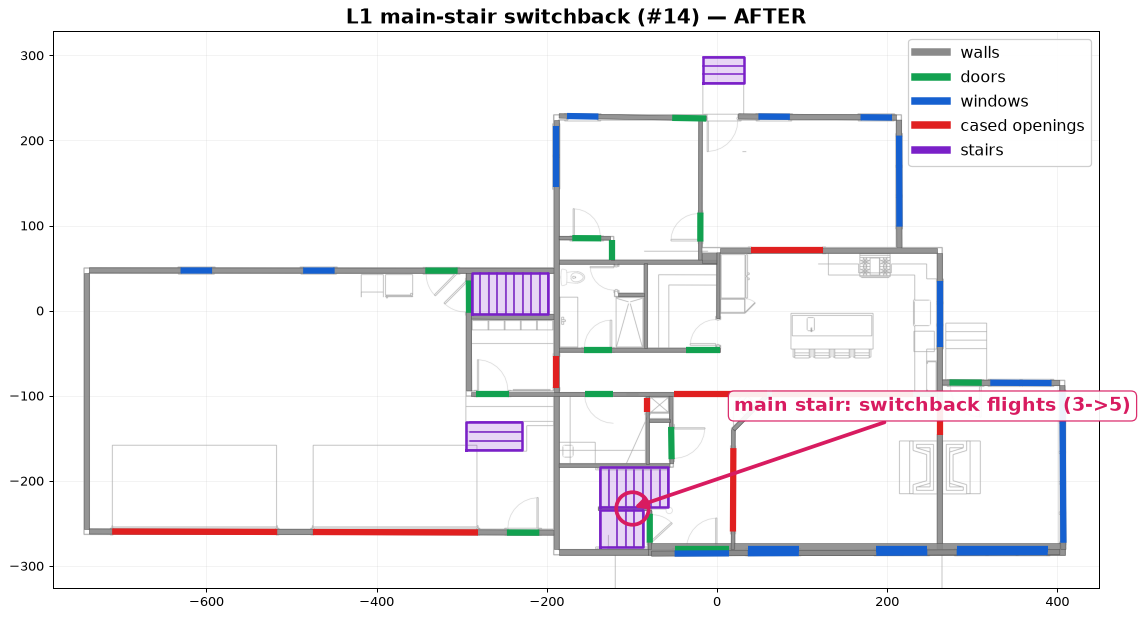
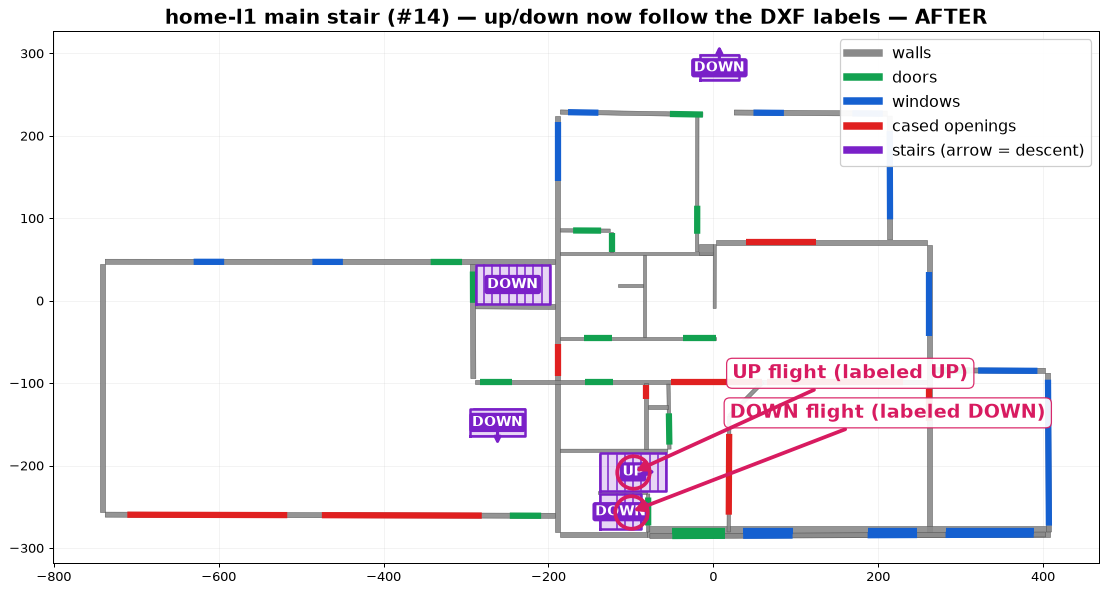
stairs #14 follow DXF up/down labels; #25 wide door -> cased opening
#14: the L1 switchback assigned up/down from a manual down_near guess that
contradicted the drawing. _switchback_bands now reads the architect's own
Down/Up text (dxf_stairs._dir_labels) to set each band's down flag +
descent direction: the DXF 'DOWN' label sits on the south band and 'UP' on
the north, so south is the down-flight (to basement) and north the up-flight
(to L2). down_near kept only as a fallback for wells with no nearby text.

#25: add a generic openings override to the GT sidecar (match a detected
opening by centre; remove or set type/width/sill/shut). Use it to mark the
65in gap at (-43.3,-123.4) as a cased opening -- the plotter drew a leaf on
it but it is an open pass-through, not a door.

Both floors regenerated; L2 opening reclassified, L1 switchback up/down
corrected; L2 stairs otherwise unchanged. PII-clean.

diff --git a/plan-to-vr/parser/dxf2plan.py b/plan-to-vr/parser/dxf2plan.py
@@ -217,6 +217,7 @@ def _switchback_bands(path, layers, g):
             gv, gi = d, i
     bands = [items[:gi], items[gi:]]
     dn = g.get("down_near")
+    labels = dxf_stairs._dir_labels(path)     # architect's own Up/Down text
     cents = []
     for band in bands:
         if band:
@@ -234,17 +235,39 @@ def _switchback_bands(path, layers, g):
         bx0, bx1, by0, by1 = min(xs), max(xs), min(ys), max(ys)
         treads = [[[round(s[0], 1), round(s[1], 1)],
                    [round(s[2], 1), round(s[3], 1)]] for s in segset]
+        cx, cy = cents[bi]
+        sx, sy = nrm                          # climb axis; sign set below
+        down = None
+        # PRIMARY: follow the architect's own Down/Up text nearest this band
+        # (owner, VR note #14: "the plan clearly indicates up and down and
+        # which side is level with this floor, follow it"). Down descends AWAY
+        # from its label (the label sits at the floor-level top of the run);
+        # up climbs TOWARD it - so the switchback's two bands get opposite
+        # directions, matching _annotate_directions' generic path.
+        best, bestd = None, 90.0
+        for kind, (lx, ly) in labels:
+            d = math.hypot(cx - lx, cy - ly)
+            if d < bestd:
+                best, bestd = (kind, (lx, ly)), d
+        if best is not None:
+            kind, (lx, ly) = best
+            s = 1.0 if ((lx - cx) * sx + (ly - cy) * sy) >= 0 else -1.0
+            sign = -s if kind == "down" else s
+            sx, sy = sign * nrm[0], sign * nrm[1]
+            down = (kind == "down")
         st = {"polygon": [[bx0, by0], [bx1, by0], [bx1, by1], [bx0, by1]],
               "treads": treads,
-              "direction": [round(nrm[0], 2), round(nrm[1], 2)]}
+              "direction": [round(sx, 2), round(sy, 2)]}
         if "direction" in g and g.get("down_dir_from_gt"):
             st["direction"] = g["direction"]
-        if dn and cents[bi]:
+        # FALLBACK: the manual down_near heuristic, only when no label is near
+        if down is None and dn and cents[bi]:
             oc = cents[1 - bi]
             here = math.hypot(cents[bi][0] - dn[0], cents[bi][1] - dn[1])
             there = math.hypot(oc[0] - dn[0], oc[1] - dn[1]) if oc else 1e18
-            if here <= there:
-                st["down"] = True
+            down = here <= there
+        if down:
+            st["down"] = True
         out.append(st)
     return out
 
@@ -400,6 +423,36 @@ def main():
     plan["openings"], op_report = dxf_openings.detect(
         args.input, args.wall_layers.split(","), dw.split(","), plan["walls"])
     report["openings"] = op_report
+
+    # Semantic opening overrides (GT sidecar). The colour-coded symbols are
+    # authoritative, but a handful of pass-throughs the owner reviewed carry a
+    # fact the drawing can't (e.g. a wide gap the plotter drew a leaf on that
+    # is really an open cased pass-through, VR note #25). Match a detected
+    # opening whose centre is within `tol` (default 30") of `near`; then
+    # `remove` it, or set `type` / `width` / `sill` / `shut`. Generic + minimal.
+    for oc in (gt.get("openings") or []):
+        nx, ny = oc["near"]
+        best, bestd = None, oc.get("tol", 30)
+        for o in plan["openings"]:
+            w = plan["walls"][o["wall_index"]]
+            (ax, ay), (bx, by) = w["start"], w["end"]
+            p = o["position"]
+            d = math.hypot(ax + (bx - ax) * p - nx, ay + (by - ay) * p - ny)
+            if d < bestd:
+                best, bestd = o, d
+        if best is None:
+            print(f"fix: opening near ({nx},{ny}) UNMATCHED")
+            continue
+        if oc.get("remove"):
+            plan["openings"].remove(best)
+            print(f"fix: opening near ({nx},{ny}) removed")
+            continue
+        for k in ("type", "width", "sill"):
+            if k in oc:
+                best[k] = oc[k]
+        if oc.get("shut"):
+            best["shut"] = True
+        print(f"fix: opening near ({nx},{ny}) -> {best.get('type')}")
 
     # Re-trace rooms with doorway bridges. A door can sit in the gap
     # BETWEEN two collinear wall segments (the dining room's north door);